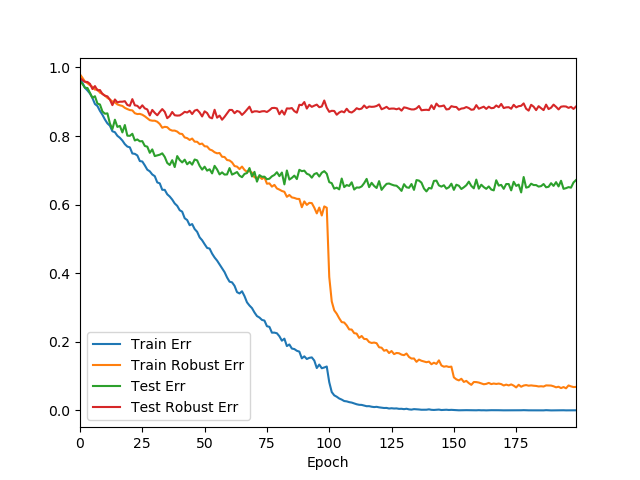
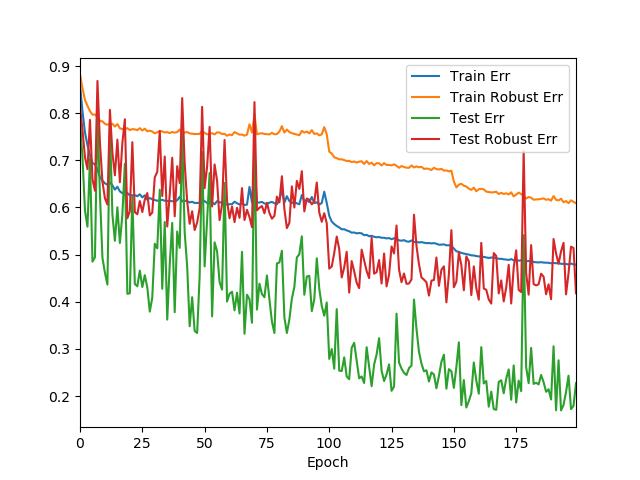
improve vis

diff --git a/vis.py b/vis.py
@@ -6,7 +6,7 @@ import matplotlib.pyplot as plt
 import matplotlib
 matplotlib.use('Agg')
 
-# dir = "experiments/cifar10_trades_l2"
+dir = "cifar_model"
 # dir = "experiments/cifar10_validation/preactresnet18"
 # dir = "experiments/cifar10_wide/wideresnet_1"
 # dir = "experiments/cifar10_lr/preactresnet18_manystep"
@@ -27,9 +27,10 @@ with open(os.path.join(dir, path), 'r') as f:
     for line in f:
         if "Epoch" in line:
             header = line
-        elif ("Namespace" in line) or ("Resuming" in line):
+        elif ("Namespace" in line) or ("Resuming" in line) or ("downloaded" in line):
             continue
         else:
+            # print('line:', line)
             temp = re.sub('\s+','\t',line)
             temp = temp.split('-', 1)[1].split('\t')
             temp = list(filter(None, temp))
